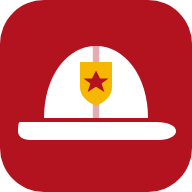
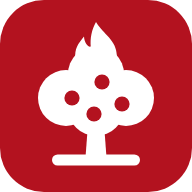
Icono: madroño de Madrid con llama
Claude-Session: https://claude.ai/code/session_01Cr1jo59tmvHcUwUDdMzfvV

Changed region(s): [[0.0938, 0.125, 0.9375, 0.875]]

diff --git a/index.html b/index.html
@@ -201,7 +201,7 @@ body.studying #tabs{display:none}
   <section class="view on" id="v-home">
     <div class="scroll">
       <header class="brand">
-        <svg viewBox="0 0 48 48" aria-hidden="true"><rect width="48" height="48" rx="11" fill="var(--accent)"/><path d="M11 29.5C11 19 16.8 11.5 24 11.5S37 19 37 29.5Z" fill="#fff"/><path d="M24 11.5v18" stroke="#b3121f" stroke-width="1.6" opacity=".35"/><path d="M5 30.5h34c3.2 0 5 1 5 2.3S42.2 35 39 35H7.5C5.6 35 4.5 34 4.5 32.8 4.5 31.5 4.6 30.5 5 30.5Z" fill="#fff"/><path d="M20 15.5h8v6.2c0 2.3-1.7 3.8-4 4.8-2.3-1-4-2.5-4-4.8Z" fill="#f5b700"/><path d="M24 17.6l1 2h2.1l-1.7 1.3.7 2.1-2.1-1.3-2.1 1.3.7-2.1-1.7-1.3H23Z" fill="#b3121f"/></svg>
+        <svg viewBox="0 0 48 48" aria-hidden="true"><rect width="48" height="48" rx="11" fill="var(--accent)"/><g fill="#fff"><path d="M24 5.5c1.8 3 5.2 4.6 5.2 8.4 0 .5 0 .9-.1 1.3H18.9c-.1-.4-.1-.8-.1-1.3 0-2.4 1.3-3.6 2.2-4.8.1 1.5.8 2.4 1.7 2.7-.2-2.3.2-4.3 1.3-6.3Z"/><circle cx="24" cy="18.5" r="7"/><circle cx="16.5" cy="24.5" r="7"/><circle cx="31.5" cy="24.5" r="7"/><circle cx="24" cy="27" r="7"/><path d="M22 31h4l.6 8h-5.2Z"/><rect x="13" y="38.6" width="22" height="2.8" rx="1.4"/></g><g fill="var(--accent)"><circle cx="18" cy="24.5" r="1.9"/><circle cx="25.5" cy="20.5" r="1.9"/><circle cx="30.5" cy="26" r="1.9"/><circle cx="23.5" cy="28.5" r="1.9"/></g></svg>
         <div><h1>Temario Bomberos</h1><p class="sub">Bombero/a conductor/a especialista · Ayuntamiento de Madrid</p></div>
       </header>
       <div class="card">

diff --git a/sw.js b/sw.js
@@ -1,4 +1,4 @@
-const C='temario-v2';
+const C='temario-v3';
 self.addEventListener('install',e=>{e.waitUntil(caches.open(C).then(c=>c.addAll(['./','./index.html','./manifest.webmanifest','./icon-192.png','./icon-512.png'])));self.skipWaiting()});
 self.addEventListener('activate',e=>{e.waitUntil(caches.keys().then(k=>Promise.all(k.filter(x=>x!==C).map(x=>caches.delete(x)))));self.clients.claim()});
 self.addEventListener('fetch',e=>{if(e.request.method!=='GET')return;e.respondWith(fetch(e.request).then(r=>{const cp=r.clone();caches.open(C).then(c=>c.put(e.request,cp));return r}).catch(()=>caches.match(e.request)))});
